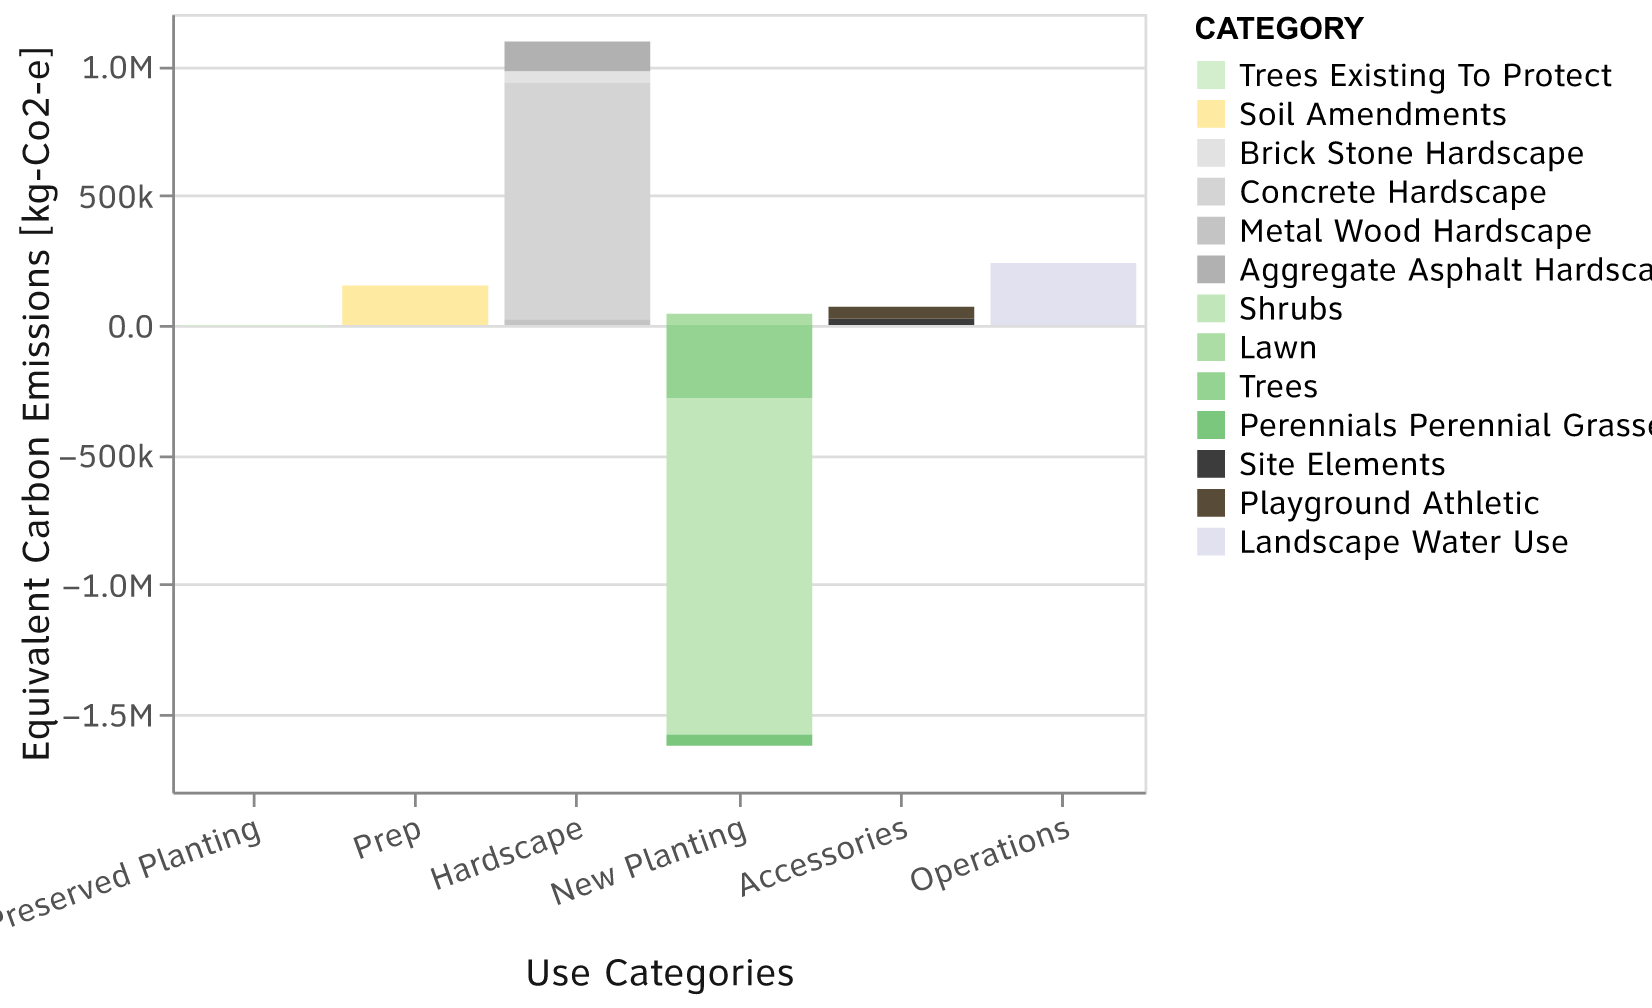
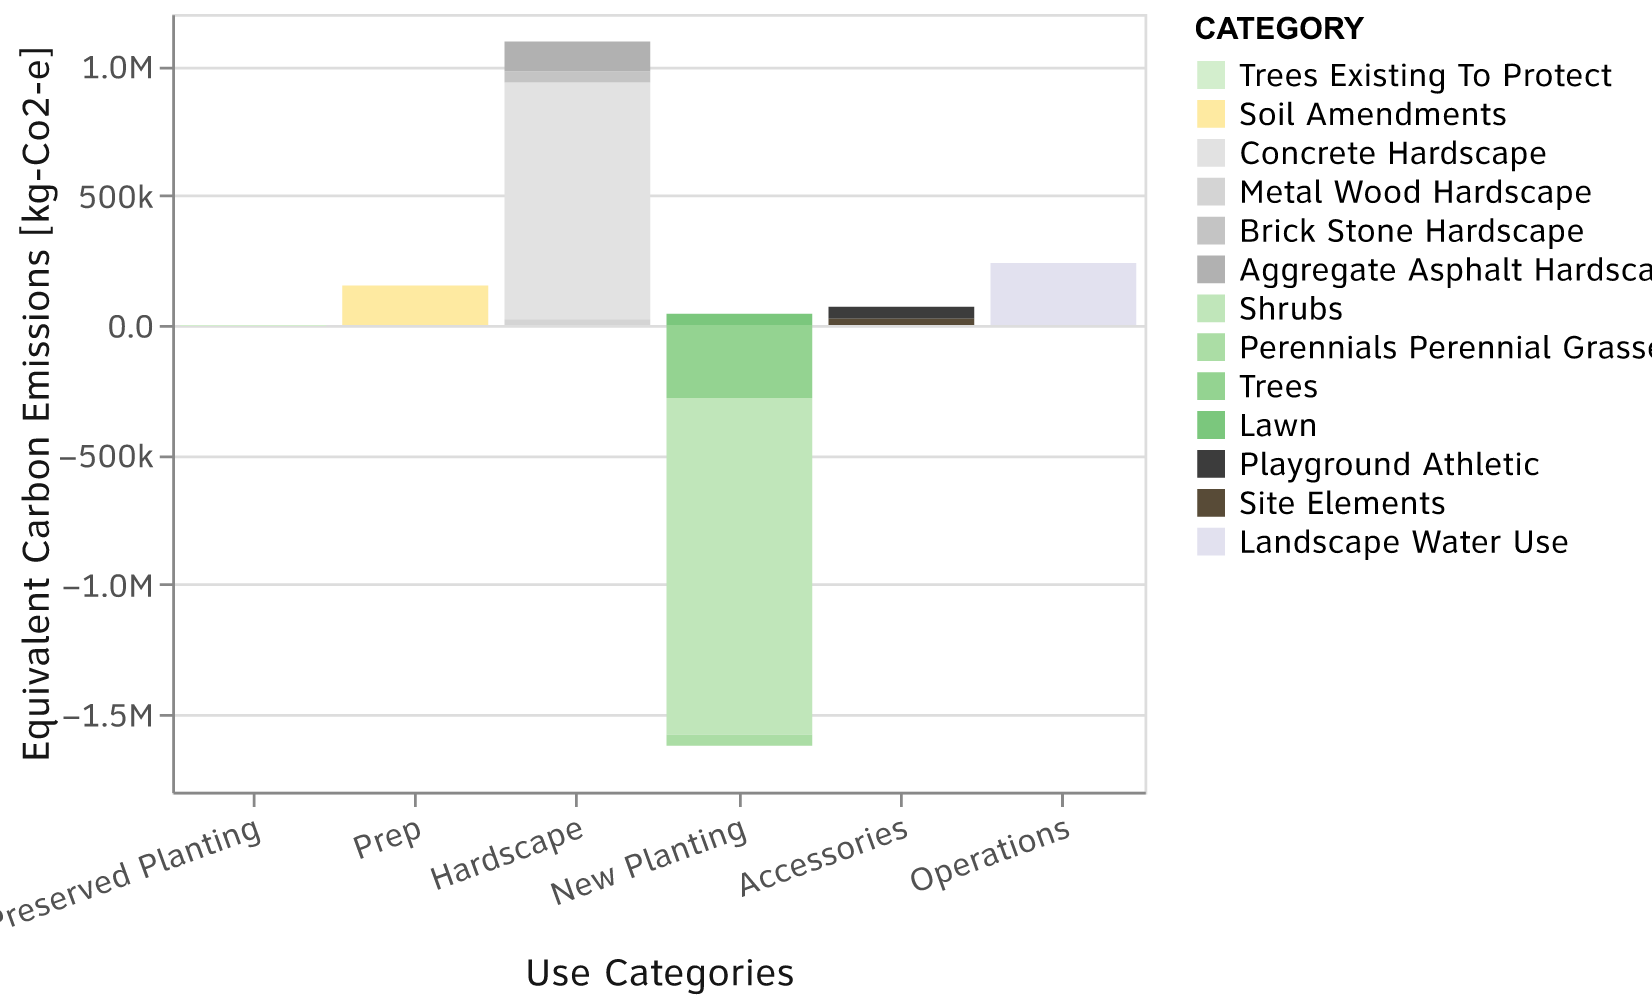
newtown creek

diff --git a/src/path_extract/plots/breakdown/elements.py b/src/path_extract/plots/breakdown/elements.py
@@ -1,16 +1,30 @@
 from path_extract.constants import ClassNames, Columns
 from path_extract.data.dataframes import edit_breakdown_df
+from path_extract.project_paths import CLMTPath, ProjectNames
+from path_extract.data.dataframes import edit_breakdown_df
+from path_extract.plots.helpers.constants import (
+    BROWSER,
+    CARBON_EMIT_LABEL,
+    HTML,
+    LABEL_ANGLE,
+    NUMBER_FORMAT,
+    RendererTypes,
+    get_exp_df,
+    save_fig,
+)
 
 
 import altair as alt
 import polars as pl
 
-from path_extract.plots.breakdown.color_category_map import map_use_category_colors_to_elements
+from path_extract.plots.breakdown.color_category_map import (
+    map_use_category_colors_to_elements,
+)
+from path_extract.plots.breakdown.categories import prep_df
 
 
-def plot_elements(_df: pl.DataFrame, title: str = "", renderer="browser"):
+def plot_elements(df: pl.DataFrame, title: str = "", renderer="browser"):
     alt.renderers.enable(renderer)
-    df = edit_breakdown_df(_df)
     domains, range_ = map_use_category_colors_to_elements(df)
 
     chart = (
@@ -33,3 +47,25 @@ def plot_elements(_df: pl.DataFrame, title: str = "", renderer="browser"):
     )
 
     return chart
+
+
+def make_element_figure(
+    project_name: ProjectNames,  # noqa: F821
+    exp_num: int,
+    renderer: RendererTypes = BROWSER,
+):
+    clmt_path = CLMTPath(project_name)
+    df = prep_df(project_name, exp_num)
+    chart = plot_elements(df, renderer=renderer)
+    if renderer == HTML:
+        fig_name = f"exp{exp_num}_elements.png"
+        save_fig(chart, clmt_path, fig_name)
+    else:
+        chart.show()
+
+    return chart
+
+
+if __name__ == "__main__":
+    alt.theme.enable("scape")
+    make_element_figure("newtown_creek", 0)

diff --git a/src/path_extract/study/pres.py b/src/path_extract/study/pres.py
@@ -1,5 +1,6 @@
 from path_extract.data.categories.use_categories import UseCategories
 from path_extract.plots.breakdown.categories import make_categorical_figure
+from path_extract.plots.breakdown.elements import make_element_figure
 from path_extract.plots.helpers.constants import HTML, clear_fig_path
 from path_extract.plots.dot_compare import make_comparison_figure
 from path_extract.plots.stacked_compare import make_stack_compare_figure
@@ -79,6 +80,7 @@ def newtown_creek_figs():
         "newtown_creek", as_designed, both, renderer=HTML, filter_categ=categ
     )
     make_comparison_figure("newtown_creek", as_designed, both, renderer=HTML)
+    make_element_figure("newtown_creek", 0, HTML)
 
 
 if __name__ == "__main__":
